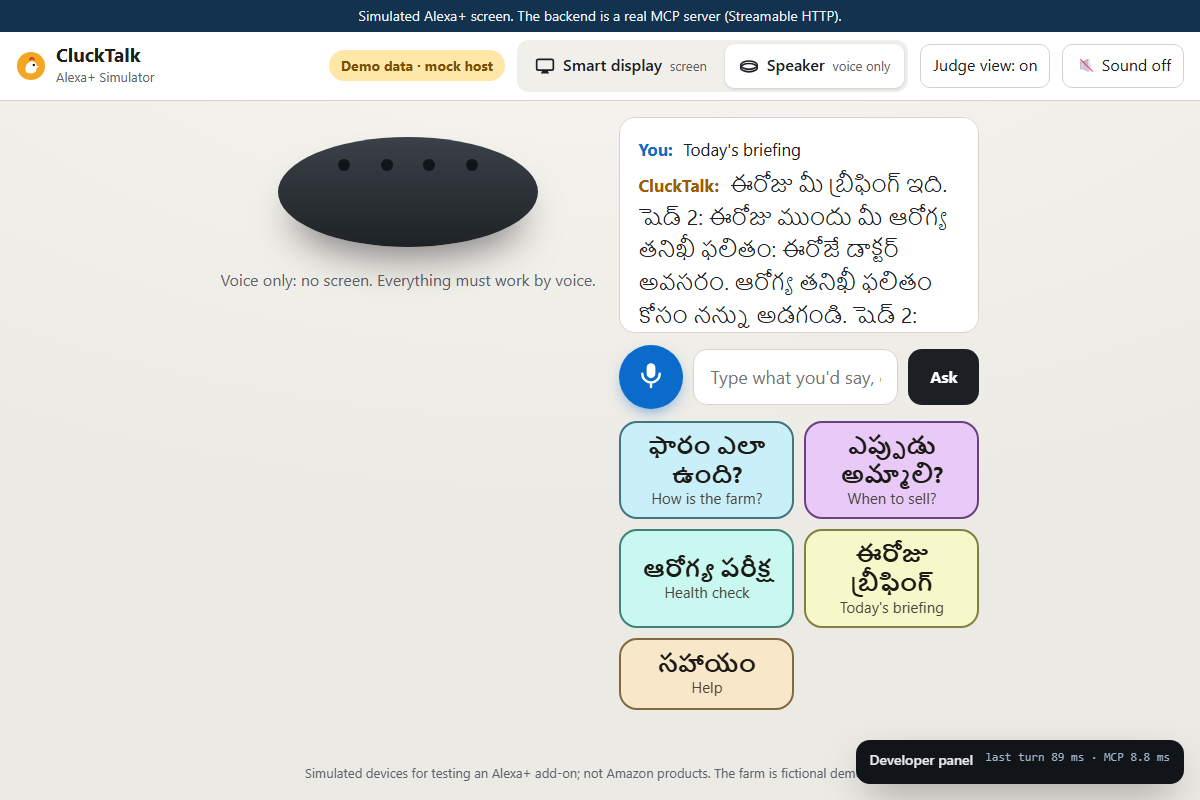
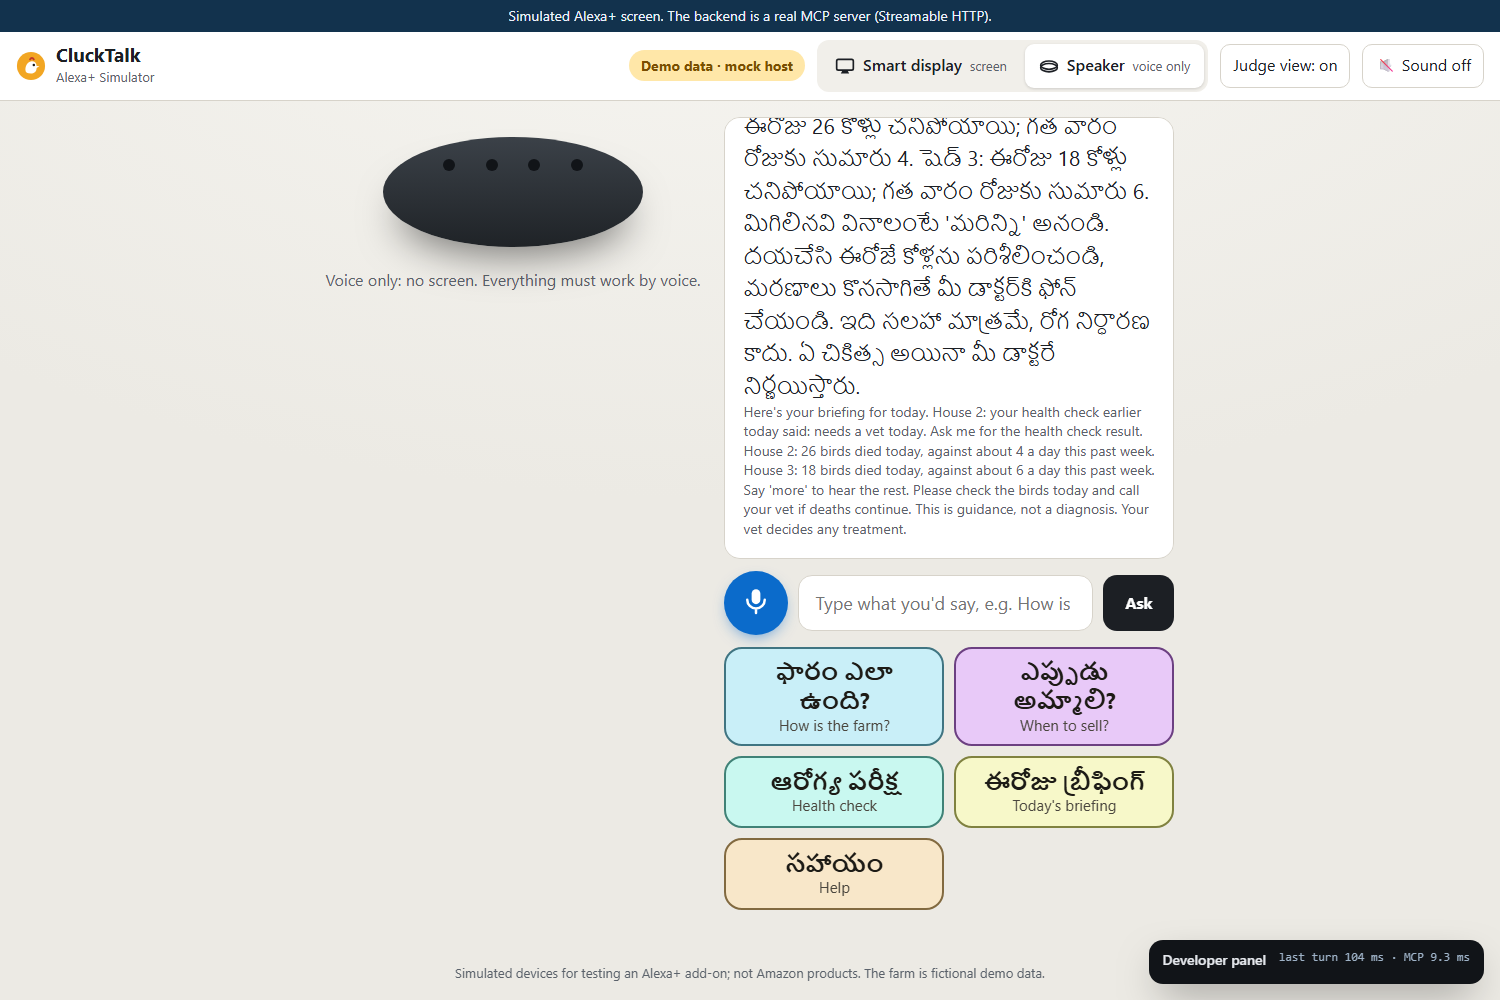
docs: gallery images 1 to 7 and 9 re-shot at 1500x1000 (image 4 at 1600x1067); captions match what is visible

Changed region(s): [[0.0, 0.0, 1.0, 0.9375], [0.2775, 0.9062, 1.0, 1.0]]

diff --git a/docs/gallery/CAPTIONS.md b/docs/gallery/CAPTIONS.md
@@ -1,15 +1,17 @@
 # Gallery captions
 
-Screenshots of the public demo (demo data, fictional farm), taken on 2026-10-21 at 1200x800. One line per image, 160 characters or fewer.
+Screenshots of the public demo (demo data, fictional farm), taken on 2026-10-21 at a 3:2 size (1500x1000; image 4 at 1600x1067; image 8 at 1200x800). One line per image, 160 characters or fewer.
 
 1. `01_smart-display-home.png`: Smart display: five starter tiles. The Alexa+ screen is simulated; the server behind it is real.
 2. `02_daily-briefing-judge-view.png`: Daily briefing card, health items first. Judge view puts the English under each Telugu line. Demo data.
 3. `03_sale-plan.png`: Sell-day plan card with the answer in Telugu and English. The price is simulated, and the farm is fictional.
-4. `04_health-check-result.png`: Health check result: urgency set by code, guidance for the vet, not a diagnosis or a dose. Demo data.
+4. `04_health-check-result.png`: Health check result: urgency set by code, guidance for the vet, no diagnosis or dose. One sentence starts it; no questions. Demo data.
 5. `05_record-read-back.png`: Record the day: the numbers are read back first. Nothing is saved until the farmer says yes.
 6. `06_smart-speaker-mode.png`: Smart speaker mode: voice only, no screen. The answer is also written in the transcript.
 7. `07_developer-panel-mcp.png`: Developer panel: the real MCP tools/call request and response behind one answer, from the public demo.
 8. `08_architecture.png`: Architecture: the Alexa+ screen and cards are simulated or sandboxed; the MCP server and its 14 tools are real. Nova is off in the demo.
-9. `09_tests-and-ci.png`: README test line (3,486 tests) and the CI run summary: four jobs passed, macOS manual and skipped.
+9. `09_tests-and-ci.png`: README test line (3,486 tests) and the CI run summary of the commit pushed just before: four jobs passed, macOS manual and skipped.
+
+Known crops: the health check card (image 4) is taller than the simulated screen and scrolls, so its lower part is cut. The transcript box scrolls and shows the end of a long answer.
 
 Not included: the Telugu farmer phone page. It needs the pilot settings, a token and a farm file, and the pilot link is never public.
